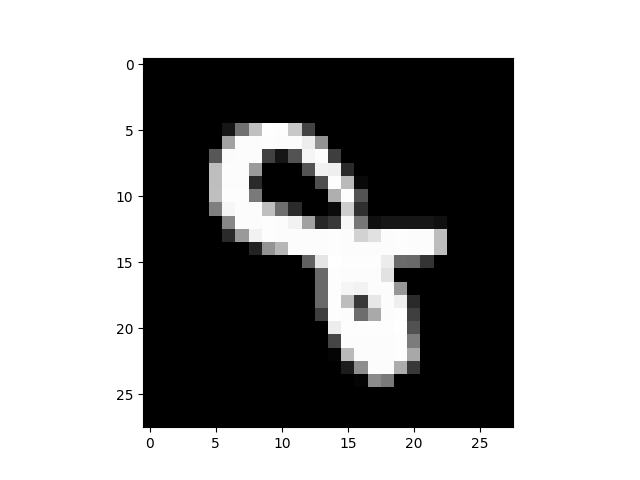
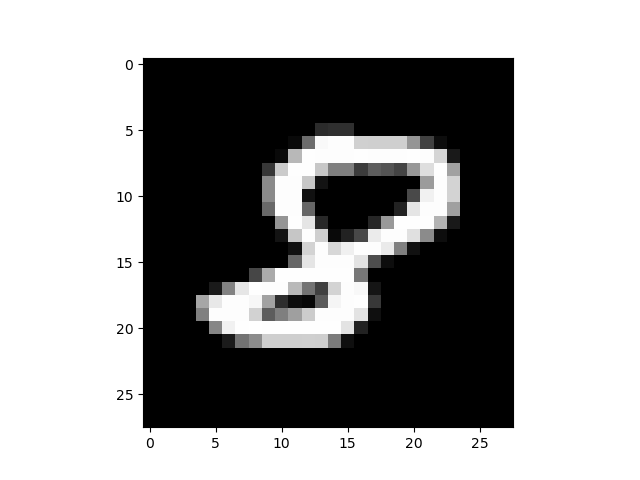
new file:   XAI/ID 61-Digit 8 high_var_index.png 	new file:   XAI/ID 61-Digit 8 new_image.png 	modified:   XAI/ID 61-Digit 8 original_image.png 	new file:   XAI/ID 61-Digit 8 saliency_map.png 	modified:   XAI/cnn_vi_2_2.py

diff --git a/XAI/cnn_vi_2_2.py b/XAI/cnn_vi_2_2.py
@@ -81,7 +81,7 @@ testloader = DataLoader(testset, batch_size=1000, shuffle=True)
 
 # NOTE: load the model weights
 
-model.load_state_dict(torch.load("/content/drive/MyDrive/Colab Notebooks/CNN_MNSIT.pth"))
+model.load_state_dict(torch.load("./CNN_MNSIT.pth"))
 
 """## Inital image setup"""
 
@@ -161,6 +161,13 @@ class VI(nn.Module):
             nn.ReLU(),
             nn.Linear(10, 784),
         )
+        self.q_c = nn.Sequential(
+            nn.Linear(784, 20),
+            nn.ReLU(),
+            nn.Linear(20, 10),
+            nn.ReLU(),
+            nn.Linear(10, 784),
+        )
 
     def reparameterize(self, mu, log_var):
         # std can not be negative, thats why we use log variance
@@ -171,9 +178,10 @@ class VI(nn.Module):
     def forward(self, x):
         mu = self.q_mu(x)
         log_var = self.q_log_var(x)
-        return self.reparameterize(mu, log_var), mu, log_var
+        c = torch.sigmoid(self.q_c(x))
+        return self.reparameterize(mu, log_var), mu, log_var , c
 
-def elbo(y_pred, y, mu, log_var, model=model, predicted=predicted):
+def elbo(y_pred, y, mu, log_var, c, model=model, predicted=predicted):
     # HACK: use the CNN model predition as the input
     model.eval()
     input = y_pred.view(1, 1, 28, 28)
@@ -183,7 +191,7 @@ def elbo(y_pred, y, mu, log_var, model=model, predicted=predicted):
     log_p_y = torch.log(F.softmax(outputs, dim=1)[:, predicted])
     sigma = log_var.exp() ** 0.5
     # likelihood of observing y given Variational mu and sigma
-    likelihood = dist.Normal(mu, sigma).log_prob(y)
+    likelihood = c * dist.Normal(mu, sigma).log_prob(y)
 
     # prior probability of y_pred
     log_prior = dist.Normal(0, 1).log_prob(y_pred)
@@ -195,8 +203,8 @@ def elbo(y_pred, y, mu, log_var, model=model, predicted=predicted):
     return (log_p_y + likelihood + log_prior - log_p_q).mean()
 
 
-def det_loss(y_pred, y, mu, log_var, model=model, predicted=predicted):
-    return -elbo(y_pred, y, mu, log_var, model, predicted)
+def det_loss(y_pred, y, mu, log_var, c , model=model, predicted=predicted):
+    return -elbo(y_pred, y, mu, log_var,c , model, predicted)
 
 """### Training VI"""
 
@@ -210,9 +218,9 @@ optim = torch.optim.Adam(m.parameters(), lr=0.005)
 # Y = torch.rand(784).clone()
 
 for epoch in range(epochs+1):
-    X = torch.rand(784).clone()
+    # X = torch.rand(784).clone()
     # Y = torch.rand(784).clone()
-    # X = img.view(784).clone()
+    X = img.view(784).clone()
     Y = img.view(784).clone()
     # if epoch <= 2000:
     #   X = torch.rand(784).clone()
@@ -222,16 +230,15 @@ for epoch in range(epochs+1):
     #   Y = mu.view(784).clone().detach()
     #   Y.requires_grad = True
     optim.zero_grad()
-    y_pred, mu, log_var = m(X)
-
+    y_pred, mu, log_var, c = m(X)
     # Get the index of the max log-probability
 
-    loss = det_loss(y_pred, Y, mu, log_var, model, input[1])
+    loss = det_loss(y_pred, Y, mu, log_var, c, model, input[1])
 
     # try view different digit
     # loss = det_loss(y_pred, Y, mu, log_var, model, 3)
 
-    if epoch % 500 == 0:
+    if epoch % 10 == 0:
         print(f"epoch: {epoch}, loss: {loss}")
         Y = mu.view(784).clone().detach()
         Y.requires_grad = True
@@ -240,12 +247,13 @@ for epoch in range(epochs+1):
     # loss.backward()
     optim.step()
 
+print(torch.where(c > 0.3))
 """### Show Surrogate model"""
 
 with torch.no_grad():
     X = img.view(784).clone()
     Y = img.view(784).clone()
-    y_pred, mu, log_var = m(X)
+    y_pred, mu, log_var, c = m(X)
     print(torch.abs(y_pred - Y).mean())
 
 new_image = mu.view(1, 1, 28, 28)
@@ -262,6 +270,7 @@ plt.savefig(f"ID {img_id}-Digit {input[1]} new_image.png")
 plt.show()
 plt.clf()
 
+print(torch.where(c > 0.9))
 """### Show high variance model"""
 
 # NOTE: The model in VI evaluation
@@ -283,6 +292,8 @@ exp_values_flatten = exp_values[high_var_index[0], high_var_index[1]]
 plt.scatter(
     high_var_index[1], high_var_index[0], s=10, c=exp_values_flatten, cmap="viridis"
 )
+c_index = np.where(c.view(28, 28) > 0.9)
+plt.scatter(c_index[1], c_index[0], s=10, c="red", marker="x")
 
 # Add a colorbar to show the mapping from colors to values
 plt.title(f"Digit {input[1]} High Variance Index(> {k})")
